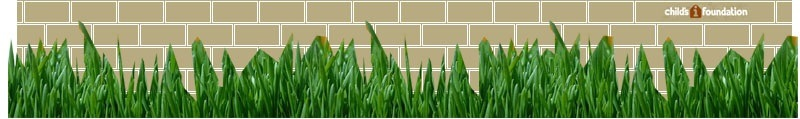
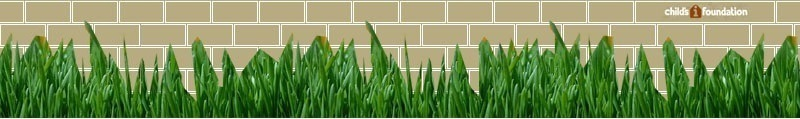
Tidied up wall CSS

diff --git a/public/stylesheets/wall.css b/public/stylesheets/wall.css
@@ -3,14 +3,24 @@
 
 div#wall {
 	width: 800px;
-	margin-top: 1em;
-	background-color: #bda988;
+	margin: auto;
 }
 
-div#wall ul {
+div#wall-bricks {
+	margin-left: 4px;
+}
+
+div#wall-bricks ul.empty {
+  background-color: white;
+}
+
+div#wall-bricks ul {
   clear: both;  
   margin: 0;
   height: 23px;
+  width: 752px;
+  padding: 0px 0px 0px 1px;
+  background-color: #bda988;
 }
 
 div#wall ul.odd {
@@ -27,7 +37,7 @@ div#wall li .brick {
 	border: 1px solid white;
 	display: block;
 	height: 20px;
-	width: 45px;
+	width: 44px;
 }
 
 div#wall li a span {

diff --git a/app/models/wall.rb b/app/models/wall.rb
@@ -2,7 +2,15 @@ class Wall
   attr_accessor :bricks, :total
   
   def initialize
-    self.bricks = Brick.find(:all, :conditions => 'purchased_at IS NOT NULL', :order => 'purchased_at DESC', :limit => 100)
+    self.bricks = Brick.find(:all, :conditions => 'purchased_at IS NOT NULL', :order => 'purchased_at DESC', :limit => 150)
     self.total = Brick.sum(:value, :conditions => 'purchased_at IS NOT NULL') / 100.0
+  end
+  
+  def rows
+    @rows ||= bricks.in_groups_of(16).reverse
+  end
+  
+  def empty_rows
+    10 - rows.size
   end
 end
